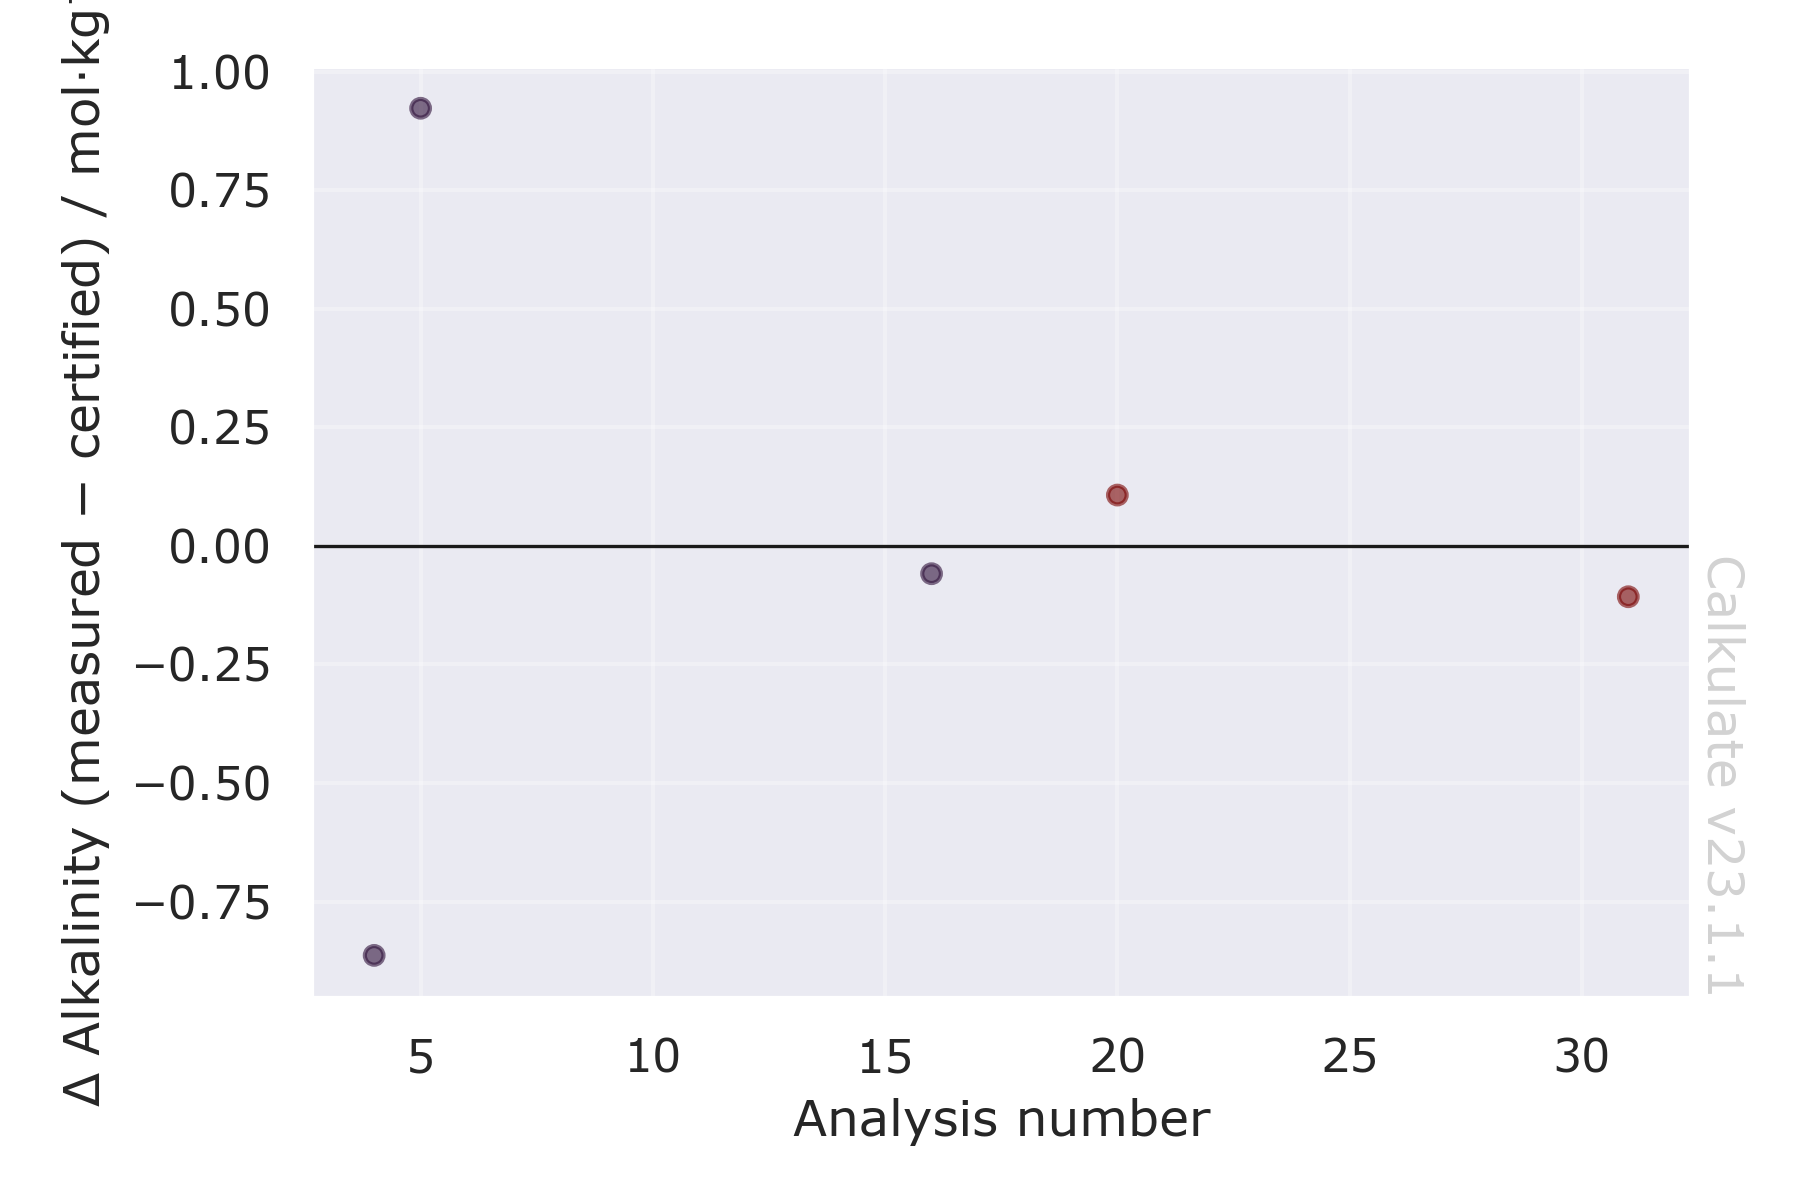
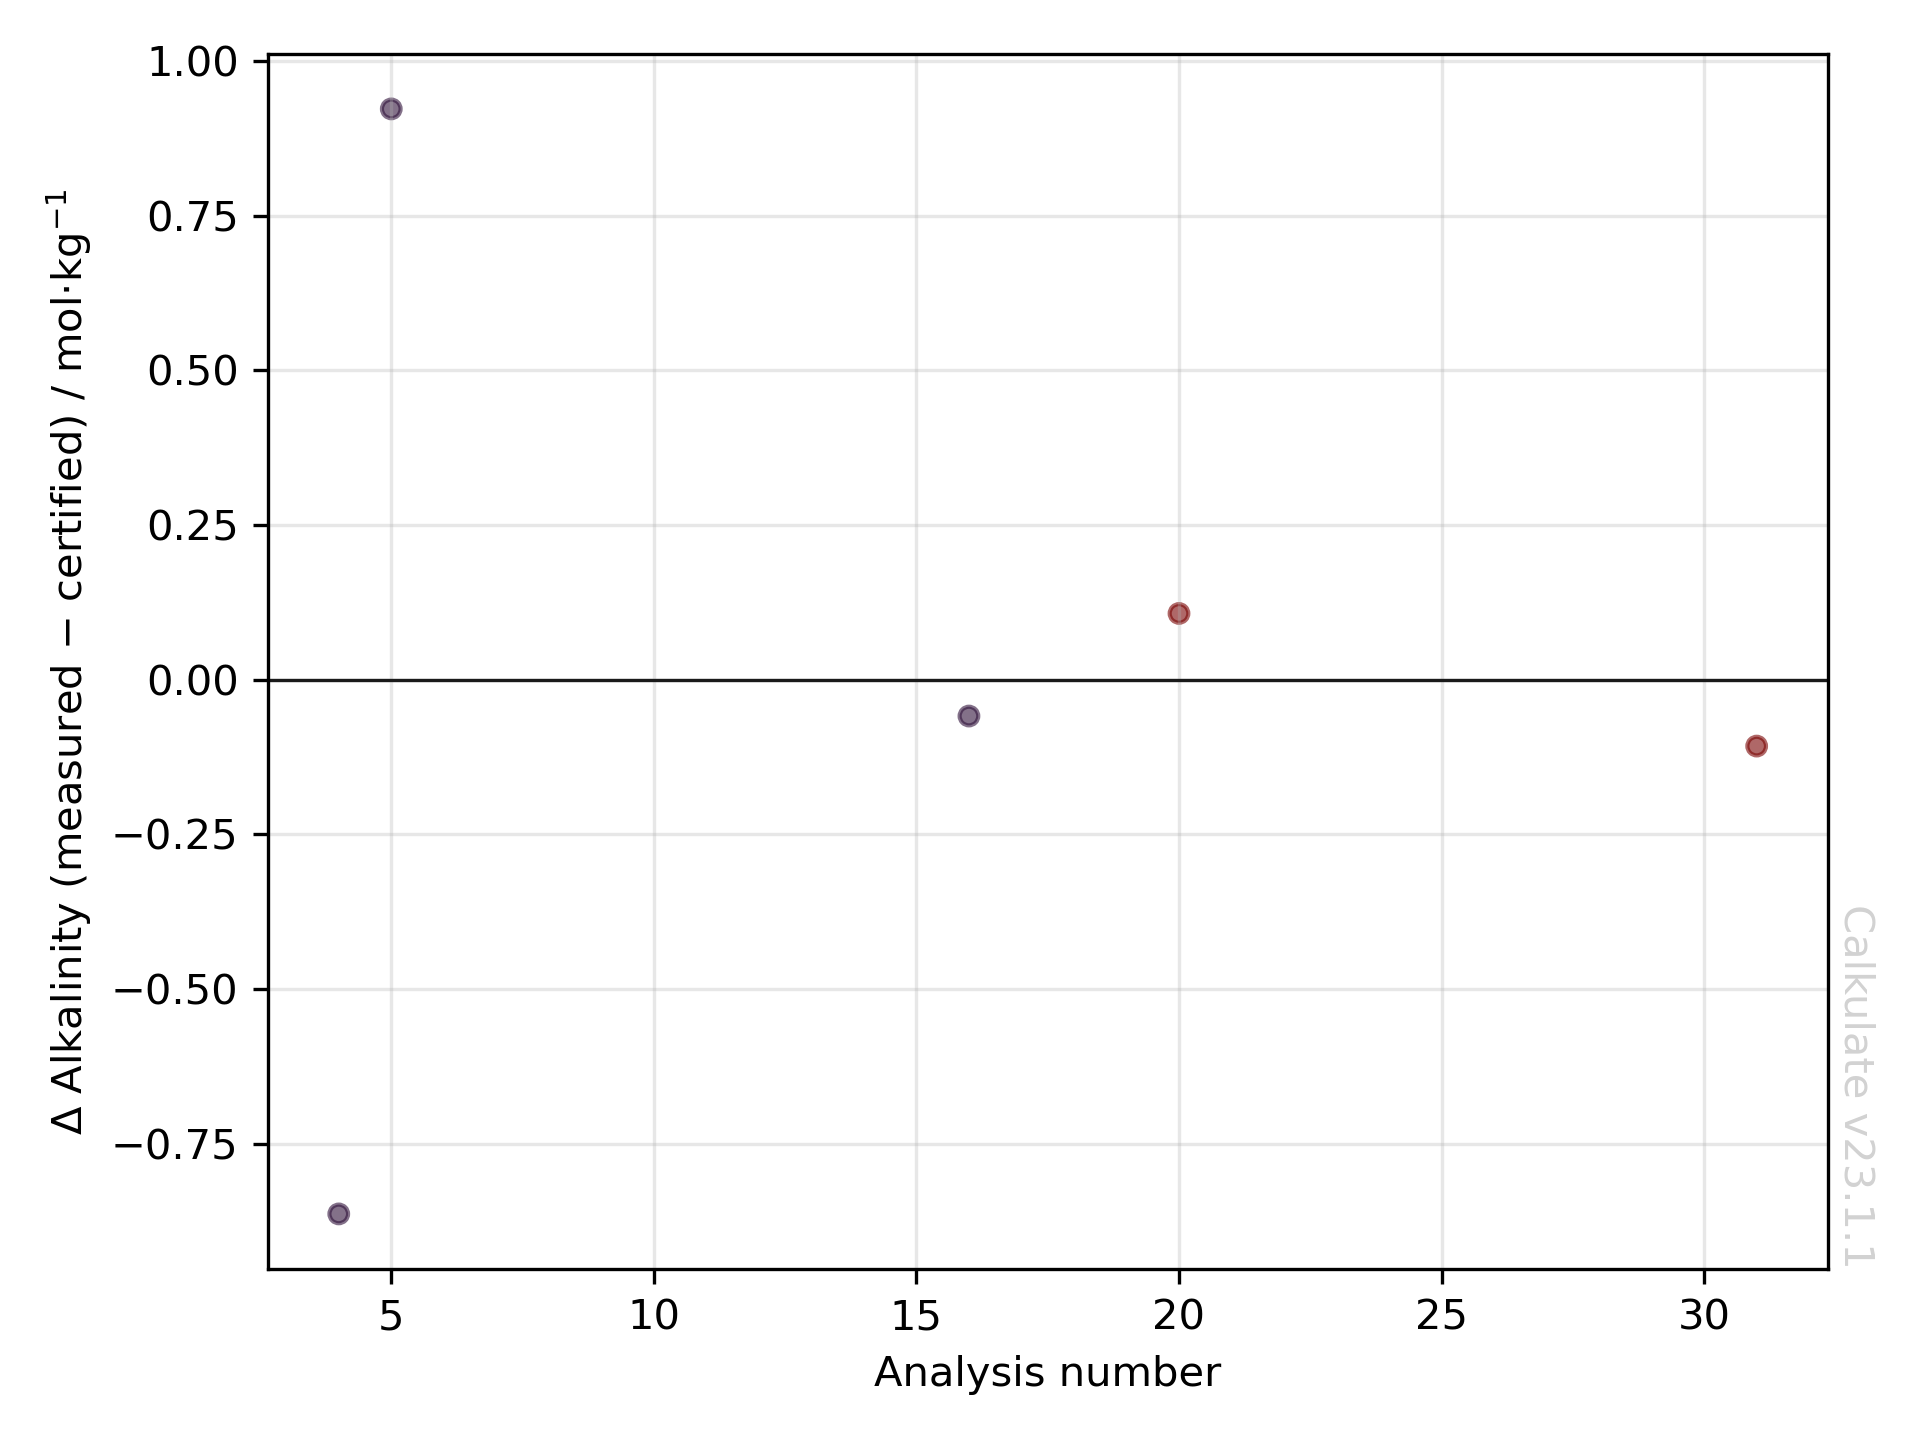
processed new ta data

Changed region(s): [[0.0311, 0.0, 0.9956, 0.9867], [0.1867, 0.7708, 0.2178, 0.8017]]

diff --git a/vindta/storage_test_process.py b/vindta/storage_test_process.py
@@ -1,5 +1,6 @@
 import numpy as np, pandas as pd
 from matplotlib import pyplot as plt
+from brokenaxes import brokenaxes 
 import seaborn as sns
 import koolstof as ks, calkulate as calk
 from pandas.tseries.offsets import DateOffset
@@ -79,6 +80,11 @@ calk.plot.alkalinity_offset(dbs, figure_fname="figs/LD_storage_test_TA/alkalinit
 # Demote dbs to a standard DataFrame
 dbs = pd.DataFrame(dbs)
 
+# === TIME SINCE SAMPLING COLUMN
+dbs['time_since_sampling'] = np.nan
+start_date = pd.to_datetime('2021-10-05', format='%Y-%m-%d')
+dbs['time_since_sampling'] = (dbs['analysis_datetime'] - start_date).dt.days
+
 # === STATISTICS
 # Statistics on all replicates
 L = (dbs['bottle'].str.startswith('S')) & (dbs['alkalinity'].notnull())
@@ -108,36 +114,31 @@ for batch in batches:
     statistics.loc[statistics['batch_number']==batch, 'standard_error_all_batches'] = stats.mstats.sem(dbs['alkalinity'][L], axis=None, ddof=0)
 
 # === PLOT
-# Prepare figure
-sns.set_style('darkgrid')
-sns.set_context('paper', font_scale=1)
-sns.set(font='Verdana', font_scale=1)
-
 # Create figure
-fig, ax = plt.subplots(dpi=300, figsize=(7, 6))
+fig, ax = plt.subplots(dpi=300)
 
 # Linear regression
-L = dbs['bottle'].str.startswith('S')
-sns.regplot(y='alkalinity',
-                 x='analysis_batch',
+L = (dbs['bottle'].str.startswith('S'))
+sns.scatterplot(y='alkalinity',
+                 x='time_since_sampling',
                  data=dbs[L],
-                 color='xkcd:blue',
-                 ci=False,
-                 ax=ax
+                 color='xkcd:blue'
                 )
 
 # Improve figure
 ymin = dbs['alkalinity'][L].min() - 2
 ymax = dbs['alkalinity'][L].max() + 2
-xmin = dbs['analysis_batch'].min() - 1
-xmax = dbs['analysis_batch'].max() + 1
+xmin = dbs['time_since_sampling'].min() - 1
+xmax = dbs['time_since_sampling'].max() + 1
 plt.xlim([xmin, xmax])
 plt.ylim([ymin, ymax])
 
+ax.grid(alpha=0.3)
+
 ax.set_ylabel('Alkalinity / μmol/kg')
-ax.set_xlabel('Analysis number')
+ax.set_xlabel('Time since sampling (days)')
 
 plt.tight_layout()
 
 # Save plot
-plt.savefig('./figs/LD_storage_test_TA/storage_test_TA.png')
+# plt.savefig('./figs/LD_storage_test_TA/storage_test_TA.png')
